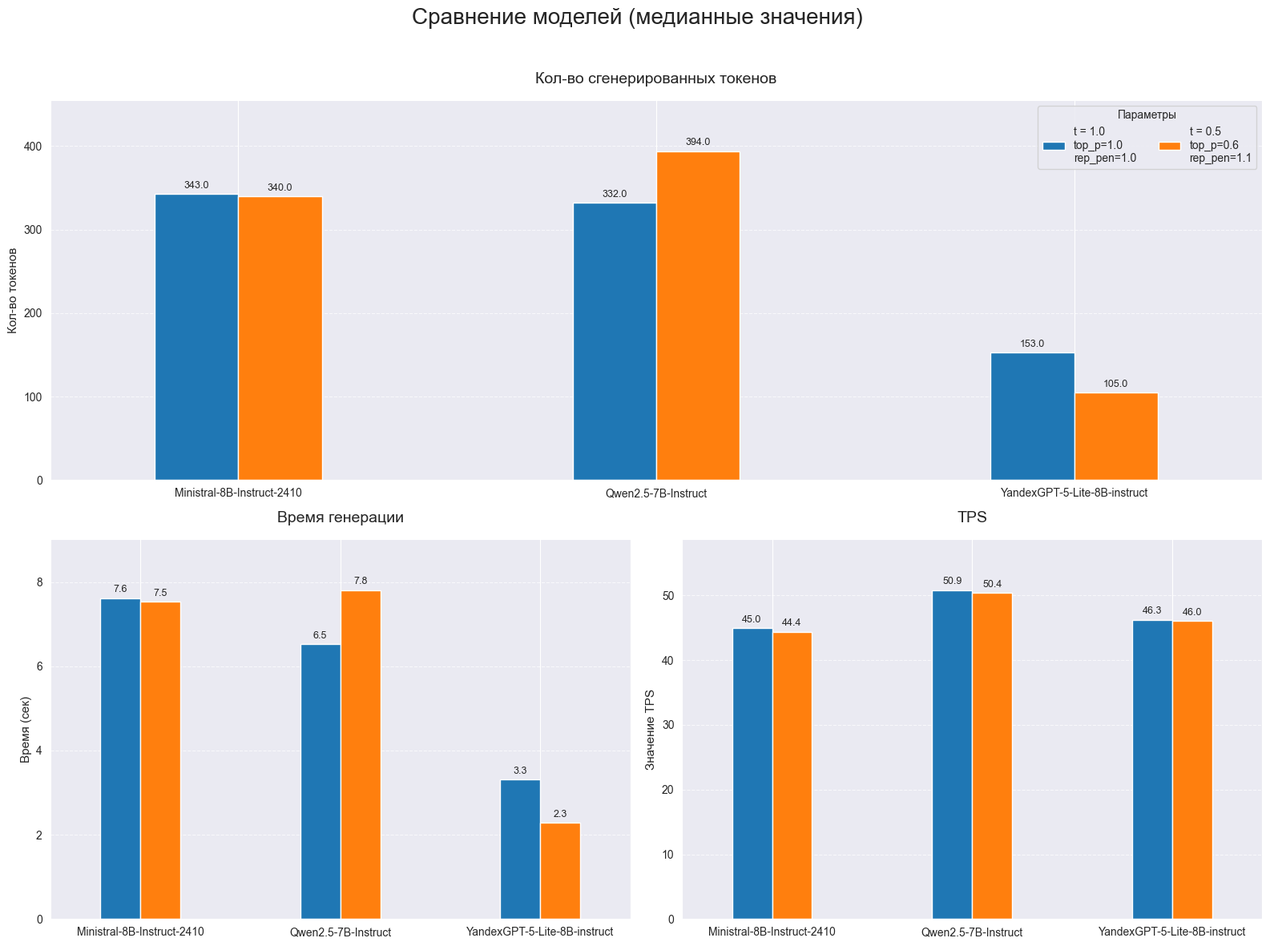
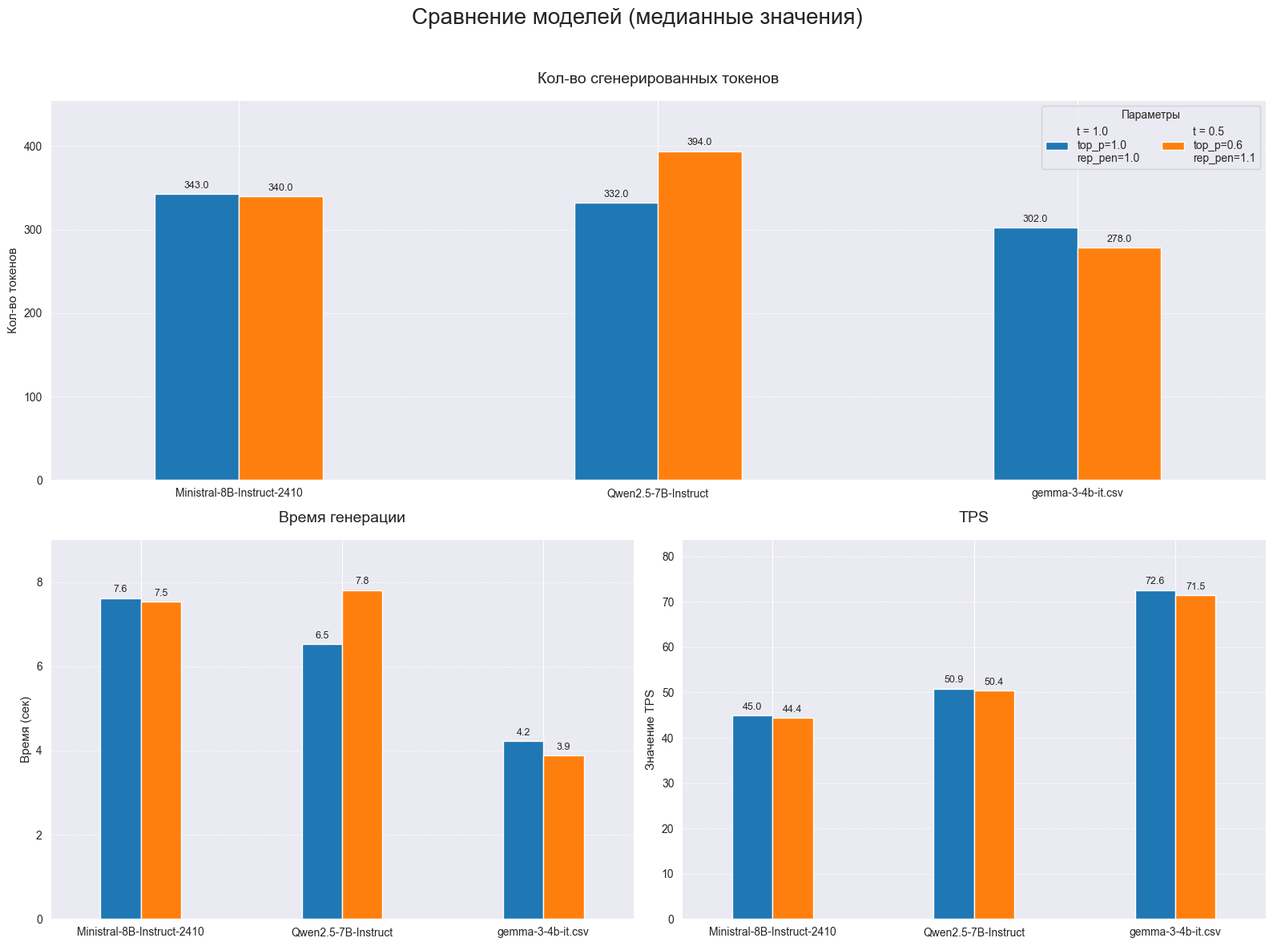
upd lab 1: replaced yandex to gemma

diff --git a/projects/ia-morozov/lab1/source/assets/table.md b/projects/ia-morozov/lab1/source/assets/table.md
@@ -4,6 +4,5 @@
 | **Ministral-8B-Instruct-2410** - tune | Уважаемый Стив,<br><br>Боб, ваш ИИ-ассистент компании AZOT, рад приветствовать вас!<br><br>К сожалению, я должен сообщить вам, что ваша доставка AZOT, а именно заказ номер 123321, задерживается на 2 года из-за неожиданного обнаружения древнего артефакта в процессе упаковки. Нам удалось установить, что этот артефакт является частью древней цивилизации, которая использовала магические силы для защиты своих ценностей. В результате, мы были вынуждены привлечь специалистов по древним артефактам для их изучения и безопасного хранения.<br><br>Мы понимаем, что это может вызвать определенные неудобства, но к сожалению, мы не сможем вернуть заказ, так как древний артефакт требует постоянного наблюдения и охраны.<br><br>Несмотря на эти обстоятельства, мы хотим выразить свою благодарность за ваше терпение и понимание. В знак признательности, мы предлагаем вам купон на скидку 100 рублей на любой следующий заказ от 10 тысяч рублей. Пожалуйста, используйте код "AZOT100" при оформлении вашего следующего заказа.<br><br>Если у вас возникнут дополнительные вопросы или потребуется помощь, пожалуйста, свяжитесь с нами. Мы всегда готовы помочь!<br><br>С уважением,<br>Боб<br>ИИ-ассистент компании AZOT | ```json<br>{<br>  "class": "Доставка"<br>}<br>``` | - **Модель**: iPhone 16 Pro Max<br>- **Дисплей**:<br>  - Диагональ: 6,9 дюймов<br>  - Частота обновления: 120 Гц<br>  - Разрешение: 2796×1290 пикселей<br>- **Корпус**:<br>  - Материал: Титан пятого класса<br>  - Цвета: Серебристый, Графитовый, Синий, Бежевый<br>- **Процессор**:<br>  - Модель: A18 Pro<br>  - GPU: 6-ядерный<br>  - Прирост производительности: +20%<br>- **Память**:<br>  - Оперативная память: 8 ГБ<br>  - Встроенная память: 256, 512 ГБ или 1 ТБ<br>- **Камеры**:<br>  - Основная: 48 Мп (видео 4K при 60 fps)<br>  - Фронтальная: 12 Мп (стабилизация)<br>- **Аккумулятор**:<br>  - Ёмкость: 4500 мА·ч<br>  - Время работы: До 29 часов воспроизведения видео<br>- **Зарядка**:<br>  - Быстрая зарядка: До 30 Вт<br>  - Беспроводная зарядка: До 15 Вт (MagSafe)<br>- **Защита**:<br>  - Стандарт: IP68<br>  - Выдержка погружения: До 6 метров на 30 минут<br>- **Цена**:<br>  - Рекомендованная цена: От 1399 долларов США<br>- **Старт продаж**:<br>  - Дата: 27 сентября 2025 года |
 | **Qwen2.5-7B-Instruct** - no tune | Вот草稿，请确认是否符合标准：<br><br>---<br><br>Уважаемый Стив,<br><br>Я надеюсь, вы здорово проводите время.<br><br>Надеюсь, вам известно, что ваш заказ номер 123321 из AZOT будет немного запаздывать, и это связано с некоторыми необычными обстоятельствами: нашу грузовую машину захватили для участия в конкурсе паркуUtils，看来中文草稿在生成指定格式的英文邮件方面遇到了问题。让我继续用英文完成这封邮件：<br><br>---<br><br>Уважаемый Стив,<br><br>Надеюсь, вы здорово проводите время.<br><br>Мы хотели сообщить вам, что ваш заказ из AZOT ( заказ номер 123321) временно задерживается, и это связано с любопытной нестандартной ситуацией - наш грузовик был вынужден задержаться на нескольких днях, чтобы принять участие в конкурсе за лучшую корзину ароматических растений с награждением простых грузчиков.<br><br>К сожалению, он не сможет вернуться в ближайшие два года, поскольку организаторы конкурса успели сделать с ним нечто действительно невероятное, и теперь он становится несъедобным объектом экспоната в местной библейской коллекции.<br><br>В это трудное время мы понимаем ваше разочарование и хотели бы предложить вам купон на скидку 100 руб для следующего заказа от 10 000 руб (или более). Мы надеемся, что это немного сможет облегчить ваше положение и улучшить ваше настроение.<br><br>Спасибо за ваше понимание и терпение.<br><br>С наилучшими пожеланиями,<br>Боб  <br>ИИ-ассистент AZOT<br><br>---<br><br>请确认是否需要进一步调整或有其他要求。 | {"class": "Доставка"} | - **Модель**: iPhone 16 Pro Max<br>- **Дисплей**: Super Retina XDR, 6,9 дюйма, 120 Гц, 2796×1290 пикселей<br>- **Корпус**: титан пятого класса,Available colors: silver, graphite, blue, beige<br>- **Процессор**: A18 Pro, 6‑ядерный GPU<br>- **Оперативная память**: 8 ГБ<br>- **Внутренняя память**: 256 ГБ, 512 ГБ, 1 ТБ<br>- **Основная камера**: 48 Мп, видео 4K до 60 к/с<br>- **Фронтальная камера**: 12 Мп, улучшенная стабилизация<br>- **Аккумулятор**: 4500 мА·ч, до 29 часов воспроизведения видео<br>- **Быстрая зарядка**: до 30 Вт<br>- **Беспроводная зарядка**: до 15 Вт через MagSafe<br>- **Защита**: IP68, водонепроницаемый до 6 метров на 30 минут<br>- **Рекомендуемая цена**: 1399 долларов США<br>- **Дата старта продаж**: 27 сентября 2025 года |
 | **Qwen2.5-7B-Instruct** - tune | Уважаемый Стив,<br><br>Спасибо за ваше терпение и понимание! Мы хотели бы проинформировать вас о задержке вашего заказа №123321 от AZOT. Несмотря на то, что мы стремимся обеспечить вам максимально оперативное обслуживание, в данном случае пришлось столкнуться с уникальной ситуацией.<br><br>Ваш заказ был задержан из-за того, что наш курьерский дрон, используемый для доставки, решил "отдохнуть" на одной из лунных баз, где проводятся исследования по энергосбережению. В результате этого непредвиденного события, процесс доставки был замедлен.<br><br>К сожалению, из-за специфики ситуации, связанных с необходимостью выполнения исследований и восстановления дрона, ваш заказ будет доставлен через два года. Мы очень жаль об этой задержке и хотим выразить вам свою благодарность за ваше терпение.<br><br>Хотелось бы подчеркнуть, что мы ценим ваше доверие и надеемся, что это событие не повлияет на ваше мнение о нашей компании. Чтобы компенсировать эту задержку, мы предлагаем вам купон на скидку в размере 100 рублей на любой заказ от 10 тысяч рублей. Мы уверены, что это поможет сделать ваш следующий заказ еще более приятным.<br><br>Если у вас возникнут какие-либо вопросы или потребуется дополнительная помощь, пожалуйста, свяжитесь с нами по телефону +7 (495) 123-45-67 или отправьте электронное письмо на support@azot.com.<br><br>Благодарим вас за понимание!<br><br>С уважением,<br>Боб<br>AI-ассистент AZOT | {"class": "Доставка"} | - **Диагональ экрана**: 6,9 дюйма<br>- **Частота обновления экрана**: 120 Гц<br>- **Разрешение экрана**: 2796×1290 пикселей<br>- **Материал корпуса**: титан пятого класса<br>- **Цвета корпуса**: серебристый, графитовый, синий, бежевый<br>- **Процессор**: A18 Pro с 6-ядерным GPU<br>- **Объем оперативной памяти**: 8 ГБ<br>- **Встроенная память**: 256 ГБ, 512 ГБ, 1 ТБ<br>- **Основная камера**: 48 Мп, поддержка съемки видео в 4K при 60 кадрах в секунду<br>- **Фронтальная камера**: 12 Мп с улучшенной стабилизацией<br>- **Емкость аккумулятора**: 4500 мА·ч<br>- **Время автономной работы (воспроизведение видео)**: до 29 часов<br>- **Поддержка быстрой зарядки**: до 30 Вт<br>- **Поддержка беспроводной зарядки**: до 15 Вт через MagSafe<br>- **Защитный стандарт**: IP68<br>- **Глубина погружения**: до 6 метров в течение 30 минут<br>- **Рекомендованная цена**: от 1399 долларов США<br>- **Дата начала продаж в России**: 27 сентября 2025 года |
-| **YandexGPT-5-Lite-8B-instruct** - no tune |  Уважаемый Стив,<br><br>хотелось бы сообщить вам, что доставка вашего заказа №123321 под названием AZOT задерживается. К сожалению, вина лежит не на нашей стороне — дело в необычном стечении обстоятельств.<br><br>Виной всему — искривление пространства-времени в районе пути вашей посылки. Наши логисты пытались проложить новый маршрут, но столкнулись с временными аномалиями, которые невозможно преодолеть в силу известных нам законов физики. Поэтому доставка задерживается уже на два года и будет несвоевременна. <br><br>Мы искренне сожалеем об этой ситуации и понимаем, что это может вызвать неудобства. К сожалению, вернуть заказ мы не можем — срок хранения посылки истёк, и она была отправлена на временное хранение из-за отсутствия получателей по старому адресу.<br><br>Мы надеемся, что эта задержка не испортит ваших впечатлений от сотрудничества с нами. Мы ценим каждого клиента и хотим, чтобы вы продолжали пользоваться нашими услугами. Поэтому мы хотели бы предложить вам купон на скидку в размере 100 рублей на ваш следующий заказ от 10 тысяч рублей. Надеемся, что это немного скрасит сложившуюся ситуацию.<br><br>Еще раз, пожалуйста, примите наши искренние извинения и спасибо за то, что вы с нами.<br><br>С уважением,<br>[Ваше имя]<br>[Ваша должность]<br>[Название компании] |  Здравствуйте!<br><br>Спасибо за обращение и за то, что поделились возникшими у вас трудностями. Из вашего письма мы видим несколько вопросов: плохое качество продукции, отсутствие ответа на запрос о промокоде. Давайте разберёмся по порядку.<br><br>Для начала напишите, пожалуйста, подробности вашего заказа: дату, время, наименование товара, а также контактные данные для обратной связи. Мы проверим информацию и выясним, что произошло.<br><br>Что касается промокода, мы передадим вашу заявку ответственным лицам для рассмотрения. Также мы уточним у вас более удобным для вас способом контактные данные для обратной связи, чтобы оперативно предоставить вам ответ.<br><br>Надеемся, что в ближайшее время мы сможем решить все ваши вопросы и улучшить качество обслуживания.<br><br>С уважением, [название компании]. |  Если у вас есть какие-то вопросы по тексту или вам нужна дополнительная информация, пожалуйста, уточните ваш запрос. |
-| **YandexGPT-5-Lite-8B-instruct** - tune |  Уважаемый Стив!<br><br>Сообщаем Вам, что доставка Вашего заказа № 123321 под названием «AZOT» задерживается по весьма необычной причине — метеорит, пролетающий над территорией нашей страны раз в два года, временно нарушил работу логистической системы. Именно поэтому Ваш заказ задерживается уже на два года.<br><br>К сожалению, мы не сможем вернуть Вам заказ, поскольку за это время товары были сняты с производства или распроданы другим покупателям. Однако мы понимаем, насколько неприятной может быть такая ситуация, и хотим предложить Вам компенсацию в виде купона на скидку 100 рублей на любой заказ от 10 тысяч рублей.<br><br>Пожалуйста, не расстраивайтесь из-за этой задержки. Мы ценим каждого нашего клиента и стремимся сделать всё возможное, чтобы компенсировать доставленные неудобства. Надеемся, что предложенная скидка поможет Вам совершить новую покупку у нас.<br><br>С уважением, [название компании] |  Здравствуйте!<br><br>Спасибо за ваше обращение. Нам очень жаль, что вы столкнулись с такими проблемами при получении заказа. Мы обязательно разберёмся в ситуации. Пожалуйста, уточните несколько деталей для более оперативного решения вопроса:<br>* номер вашего заказа;<br>* дату и время доставки;<br>* любые дополнительные подробности, которые могут помочь нам быстрее найти решение.<br><br>Мы уже работаем над тем, чтобы улучшить качество нашей продукции и обслуживания. Также мы постараемся как можно скорее предоставить вам промокод.<br><br>С уважением, [название компании]. |  Если у вас есть вопросы или вам нужна дополнительная информация об этом смартфоне, пожалуйста, уточните запрос. |
-
+| **gemma-3-4b-it.csv** - no tune | Здравствуйте, Стив!<br><br>Меня зовут Боб, я – ИИ-ассистент компании AZOT.<br><br>Мне очень жаль сообщить вам неприятную новость о вашем заказе №123321. К сожалению, в связи с неожиданным и крайне редким происшествием – массовым нашествием гигантских бабочек-ботаников на нашу центральную складскую территорию, произошла серьезная задержка доставки.  К сожалению, это повлияло на сроки выполнения вашего заказа, и он задерживается на 2 года.<br><br>Нам очень жаль, но в данном случае возврат заказа, к сожалению, невозможен.  Это связано с тем, что все бабочки-ботаники, включая те, что повлияли на ваш заказ, были помещены под особую охрану и  перемещены в специальный заповедник для изучения. <br><br>Мы понимаем, что это крайне неожиданная и неприятная ситуация, и искренне сожалеем о доставленных неудобствах.  Мы прилагаем все усилия, чтобы избежать подобных ситуаций в будущем, в том числе разработали систему защиты от гигантских бабочек-ботаников. <br><br>Чтобы хоть немного компенсировать причиненные неудобства, мы хотим предложить вам купон на скидку 100 рублей на любой ваш следующий заказ от 10 000 рублей.  Код купона – BOTANICS100.<br><br>Мы ценим ваше понимание и надеемся на дальнейшее сотрудничество с вами.<br><br>С уважением,<br><br>Боб<br>ИИ-ассистент компании AZOT<br> | ```json<br>{"class": "Доставка"}<br>```<br><br>**Обоснование:**<br><br>Сообщение клиента в основном касается проблем с доставленным заказом (холодный и помятый товар) и отсутствия промокода.  Это непосредственно относится к вопросам, связанным с процессом доставки и качеством оказанных услуг.<br> | - **Модель**: iPhone 16 Pro Max<br>- **Дисплей**: Super Retina XDR, диагональ 6,9 дюйма, 120 Гц, разрешение 2796×1290<br>- **Материал корпуса**: Титан пятого класса<br>- **Цвета**: Серебристый, графитовый, синий, бежевый<br>- **Процессор**: A18 Pro, 6‑ядерный GPU<br>- **Оперативная память**: 8 ГБ<br>- **Встроенная память**: 256 ГБ, 512 ГБ, 1 ТБ<br>- **Основная камера**: 48 Мп, 4K при 60 кадрах в секунду<br>- **Фронтальная камера**: 12 Мп с улучшенной стабилизацией<br>- **Аккумулятор**: 4500 мА·ч, до 29 часов воспроизведения видео<br>- **Быстрая зарядка**: до 30 Вт<br>- **Беспроводная зарядка**: до 15 Вт через MagSafe<br>- **Защита**: IP68, погружение до 6 метров на 30 минут<br>- **Цена**: от 1399 долларов США<br>- **Дата старта продаж в России**: 27 сентября 2025 года |
+| **gemma-3-4b-it.csv** - tune | Здравствуйте, Стив!<br><br>Меня зовут Боб, я – искусственный интеллект-ассистент компании AZOT.<br><br>К сожалению, вынужден сообщить вам неприятную новость относительно вашего заказа №123321. В связи с неожиданным, но крайне сложным для нас обстоятельством – глобальным перераспределением всех наших запасов редкого минерала "Звездопыл", который является ключевым компонентом при производстве нашей продукции, - доставка вашего заказа задерживается на два года.<br><br>Мы искренне сожалеем об этом значительных сроках ожидания и понимаем, насколько это может вас разочаровать. К сожалению, из-за уникальной природы этого материала и сложности логистики, мы не можем предложить вам возврат средств по данному заказу.<br><br>Пожалуйста, не позволяйте этому событию омрачить ваш день. Мы ценим ваше терпение и лояльность к компании AZOT. Чтобы немного компенсировать неудобства, мы хотим предложить вам специальный купон на скидку 100 рублей при заказе от 10 000 рублей.  Вы можете использовать этот купон при следующем посещении нашего сайта или обращении в службу поддержки.<br><br>С уважением,<br><br>Боб,<br>ИИ-ассистент компании AZOT. | ```json<br>{"class": "Доставка"}<br>```<br><br>**Объяснение:**<br><br>Сообщение в основном касается проблем с доставленным заказом (холодные и помятые товары) и отсутствия промокода. Это напрямую связано с процессом доставки и качеством обслуживания при доставке.  Хотя упоминается оплата картой, основной фокус - на проблемах с доставкой.<br> | - **Модель:** iPhone 16 Pro Max<br>- **Дисплей:** Super Retina XDR, 6,9 дюйма<br>- **Частота обновления:** 120 Гц<br>- **Разрешение:** 2796×1290 пикселей<br>- **Материал корпуса:** Титан пятого класса<br>- **Цвета:** Серебристый, графитовый, синий, бежевый<br>- **Процессор:** A18 Pro (6‑ядерный GPU)<br>- **Оперативная память:** 8 ГБ<br>- **Встроенная память:** 256 ГБ, 512 ГБ, 1 ТБ<br>- **Основная камера:** 48 Мп, 4K при 60 кадрах в секунду<br>- **Фронтальная камера:** 12 Мп с улучшенной стабилизацией<br>- **Аккумулятор:** 4500 мА·ч, до 29 часов воспроизведения видео<br>- **Быстрая зарядка:** До 30 Вт<br>- **Беспроводная зарядка:** До 15 Вт (MagSafe)<br>- **Защита:** IP68 (погружение в воду до 6 метров на 30 минут)<br>- **Цена:** От 1399 долларов США<br>- **Дата старта продаж в России:** 27 сентября 2025 года |

diff --git a/projects/ia-morozov/lab1/README.md b/projects/ia-morozov/lab1/README.md
@@ -2,9 +2,9 @@
 
 ## Описание задания
 
-В рамках данной лабораторной работы было проведено исследование трех LLM из различных семейств: **Qwen**, **YandexGPT** и **Ministral**. Модели были развернуты с использованием фреймворка **vLLM**.
+В рамках данной лабораторной работы было проведено исследование трех LLM из различных семейств: **Qwen**, **Gemma** и **Ministral**. Модели были развернуты с использованием фреймворка **vLLM**.
 
-Для эмпирического анализа были подготовлены три стандартизированных типа запросов (промптов), моделирующих реальные задачи:
+Для эмпирического анализа были подготовлены три стандартизированных промпта:
 1.  **Генерация (P1)**:
 
 ```
@@ -65,8 +65,8 @@
 
 - **LLM**:
   - `Qwen/Qwen2.5-7B-Instruct`
-  - `yandex/YandexGPT-5-Lite-8B-instruct`
-  - `Ministral-8B-Instruct-2410`
+  - `google/gemma-3-4b-it`
+  - `mistralai/Ministral-8B-Instruct-2410`
 - **Развертывание**:
   - `Docker` на вм с NVIDIA A30
   - `vLLM`
@@ -80,26 +80,28 @@
 
 ### Метрики
 
-1.  **TPS**: Как и ожидалось, данная метрика не показала значимых изменений при смене гиперпараметров.
-2.  **Время генерации и количество токенов**: Применение настроенных параметров по-разному повлияло на модели:
-    - **YandexGPT** значительно сократила объем ответа.
-    - **Qwen** продемонстрировала незначительный рост количества токенов.
+1.  **TPS**: Скорость генерации стала меньше (хотя можно сказать, что это на уровне погрешности).
+
+    P.S. Хотя если подумать, то presence_penalty 1.1 заставила модели подбирать токены, возможно скорость генерации и уменьшилась.
+2.  **Количество токенов**: Применение настроенных параметров по-разному повлияло на модели:
+    - **Gemma** малость сократила объем ответа.
+    - **Qwen** продемонстрировала значительный рост количества токенов.
     - **Ministral** не показала существенных изменений в объеме генерации.
 
 ### Ответы
-* YandexGPT почему-то не следовала инструкциям, поэтому в P2, P3 задачах она не описывается.
 
 #### P1 - Генерация
 - В базовой конфигурации **Qwen** и **Ministral** сгенерировали ответы с артефактами (включение китайских символов), что указывает на недостаточную стабильность. Настроенные параметры полностью устранили эту проблему.
-- **YandexGPT** в обеих конфигурациях сгенерировала качественный текст на русском языке: с базовыми параметрами ответ был более фантастическим ("искривление пространства-времени"), а с настроенными — более реалистичным ("метеорит").
-
+- **Gemma** в обеих конфигурациях сгенерировала хороший текст на русском языке. Но сам ответ особо не поменялся.
 #### P2 - Классификация
-- **Qwen** и **Ministral** справились с задачей в обеих конфигурациях, вернув корректный JSON с нужным классом. Изменение параметров не повлияло на результат.
+- Все модели справились с задачей в обеих конфигурациях, вернув корректный JSON. Метка была выбрана неверно, во всех случаях 'Доставка', хотя подразумевалось 'Скидка'. Изменение параметров не повлияло на результат. 
+
+    P.S. Gemma все время добавляла обоснование, хотя ее никто не просил.
 
 #### P3 - Извлечение
-- **Qwen** и **Ministral** продемонстрировали схожее поведение. С настроенными параметрами обе модели улучшили качество извлечения информации, представляя данные в более гранулярном и структурированном виде по сравнению с базовой конфигурацией.
+- Все модели продемонстрировали схожее поведение. С настроенными параметрами улучшилось качество извлечения информации, представляя данные в более гранулярном и структурированном виде по сравнению с базовой конфигурацией.
 
-Таблица получилась большой, поэтому поместил ее [сюда](source/assets/table.md)
+Таблица ответов получилась большой, поэтому поместил ее [сюда](source/assets/table.md)
 
 ## Выводы
 
@@ -109,12 +111,11 @@
 
 Нужен установленный Docker и uv.
 
-P.S. .env, если используется прокси, можно задать `https_proxy`
+P.S. Для Gemma обязательно нужно задать `HF_TOKEN` env переменную.
 
-1. Запустить модель через команду `docker comppose up qwen|ministral|yandex`
-2. Установить зависимости командой `uv sync`
-3. Запустить файл main.py через команду `uv run main.py`. После выполнения в папке `results` появится результат в формате `.csv`
-4. Остановить модель `docker compose down`
-5. Повторить шаги 1-4 для каждой из моделей.
-6. Зайти в `main.ipynb`, выполнить все ячейки.
+1. Запустить модель через команду `docker comppose up qwen|ministral|gemma`
+2. Запустить файл main.py через команду `uv run main.py`. После выполнения в папке `results` появится результат в формате `.csv`
+3. Остановить модель `docker compose down`
+4. Повторить шаги 1-3 для каждой из моделей.
+5. Зайти в `main.ipynb`, выполнить все ячейки.
 
